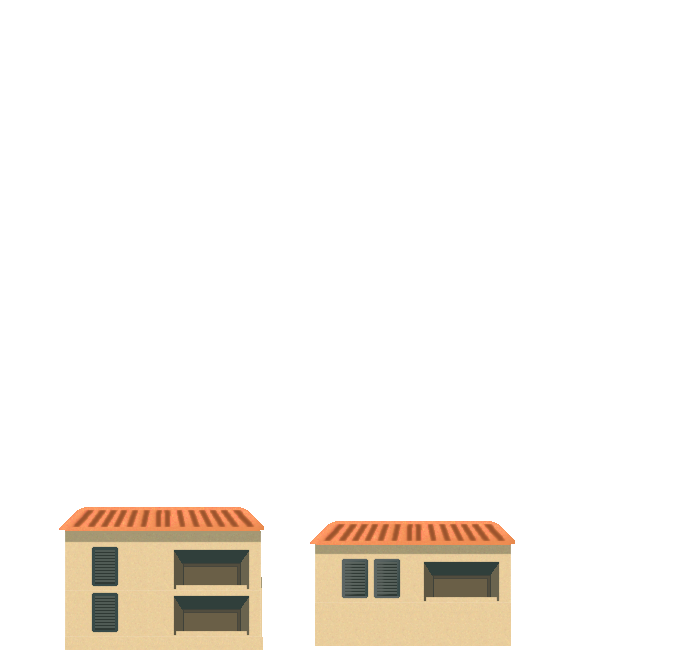
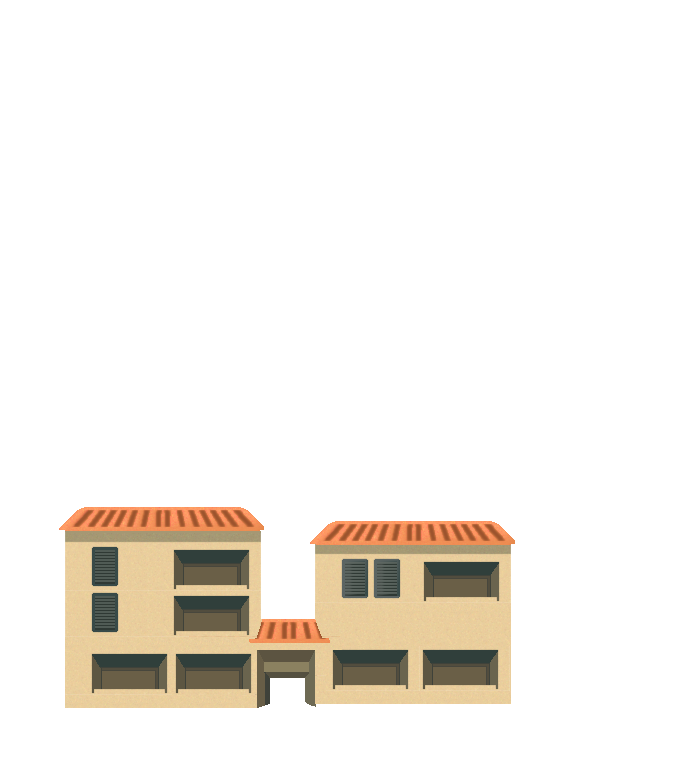
Parallax improvement

Changed region(s): [[0.09, 0.6462, 0.75, 1.0]]

diff --git a/Source/ssge/Level.cpp b/Source/ssge/Level.cpp
@@ -542,12 +542,14 @@ namespace ssge
 			if (bkgWidth <= 0 || bkgHeight <= 0)
 				continue; // TODO: Error logging
 
-			int parallaxOffsetX = (int)(background.getParallaxX() * (float)leftOffset * -1);
+			int parallaxOffsetX = background.getOffsetX();
+			parallaxOffsetX += (int)(background.getParallaxX() * (float)leftOffset * -1);
 			// Make sure the first background tile is visible (horizontally)
 			while (parallaxOffsetX + bkgWidth < 0)
 				parallaxOffsetX += bkgWidth;
 
-			int parallaxOffsetY = (int)(background.getParallaxY() * (float)topOffset * -1);
+			int parallaxOffsetY = background.getOffsetY();
+			parallaxOffsetY += (int)(background.getParallaxY() * (float)topOffset * -1);
 			// Make sure the first background tile is visible (vertically)
 			while (parallaxOffsetY + bkgHeight < 0)
 				parallaxOffsetY += bkgHeight;
@@ -713,8 +715,10 @@ namespace ssge
 			std::string bkgTexturePath = getValue(layerCaption, "Texture");
 			float parallaxX = getFloat(layerCaption, "ParallaxX", 1.f);
 			float parallaxY = getFloat(layerCaption, "ParallaxY", 1.f);
+			int offsetX = getInt(layerCaption, "OffsetX", 0);
+			int offsetY = getInt(layerCaption, "OffsetY", 0);
 
-			newLevel->backgrounds.emplace_back(bkgTexturePath, parallaxX, parallaxY);
+			newLevel->backgrounds.emplace_back(bkgTexturePath, parallaxX, parallaxY, offsetX, offsetY);
 		}
 
 		return true;
@@ -894,8 +898,8 @@ namespace ssge
 			return "";
 		}
 	}
-	Level::Background::Background(std::string path, float parallaxX, float parallaxY)
-		: path(path), parallaxX(parallaxX), parallaxY(parallaxY) {}
+	Level::Background::Background(std::string path, float parallaxX, float parallaxY, int offsetX, int offsetY)
+		: path(path), parallaxX(parallaxX), parallaxY(parallaxY), offsetX(offsetX), offsetY(offsetY) {}
 	
 	const SdlTexture& Level::Background::getTexture() const
 	{
@@ -921,9 +925,15 @@ namespace ssge
 
 	float Level::Background::getParallaxY() const { return parallaxY; }
 	void Level::Background::setParallaxY(float parallaxY)
-	{
-		this->parallaxY = parallaxY;
-	}
+		{ this->parallaxY = parallaxY; }
+
+	int Level::Background::getOffsetX() const { return offsetX; }
+	void Level::Background::setOffsetX(int OffsetX)
+		{ this->offsetX = OffsetX; }
+
+	int Level::Background::getOffsetY() const { return offsetY; }
+	void Level::Background::setOffsetY(int OffsetY)
+		{ this->offsetY = OffsetY; }
 
 	bool Level::Background::isValid() const { return texture.isValid(); }
 }

diff --git a/Source/ssge/Level.h b/Source/ssge/Level.h
@@ -195,9 +195,11 @@ namespace ssge
 			std::string path;
 			float parallaxX = 0;
 			float parallaxY = 0;
+			int offsetX = 0;
+			int offsetY = 0;
 		public:
 			Background() = default;
-			Background(std::string path, float parallaxX, float parallaxY);
+			Background(std::string path, float parallaxX, float parallaxY, int offsetX, int offsetY);
 			Background(const Background& toCopy) = default;
 			Background(Background&& toMove) = default;
 			~Background() = default;
@@ -214,6 +216,12 @@ namespace ssge
 
 			float getParallaxY() const;
 			void setParallaxY(float parallaxY);
+
+			int getOffsetX() const;
+			void setOffsetX(int offsetX);
+
+			int getOffsetY() const;
+			void setOffsetY(int offsetY);
 
 			bool isValid() const;
 		};
